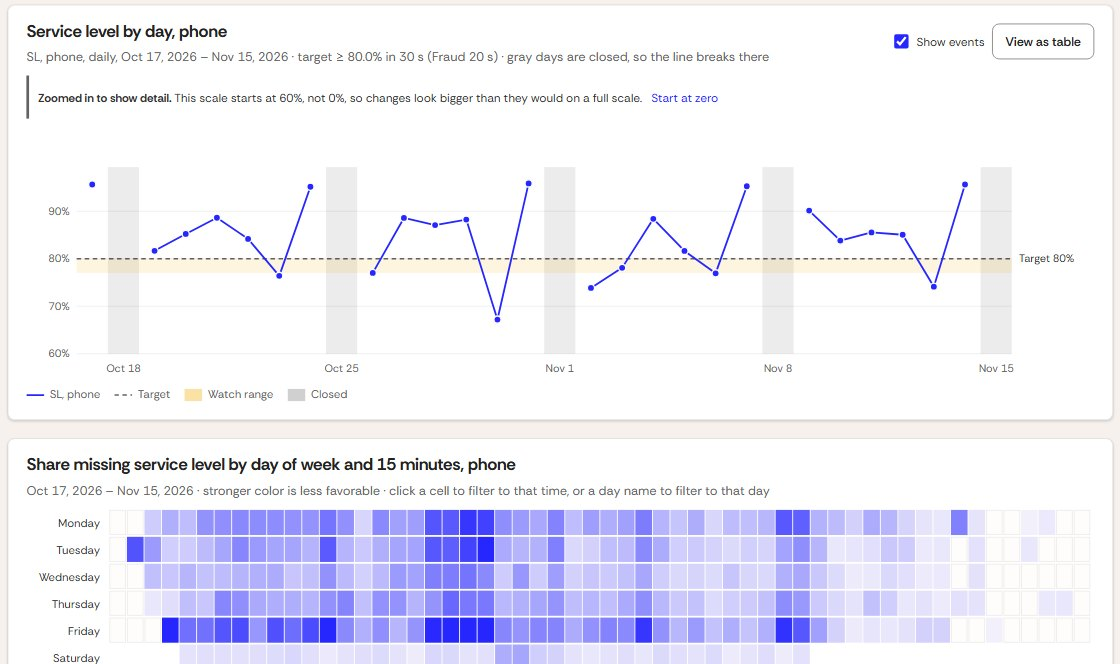
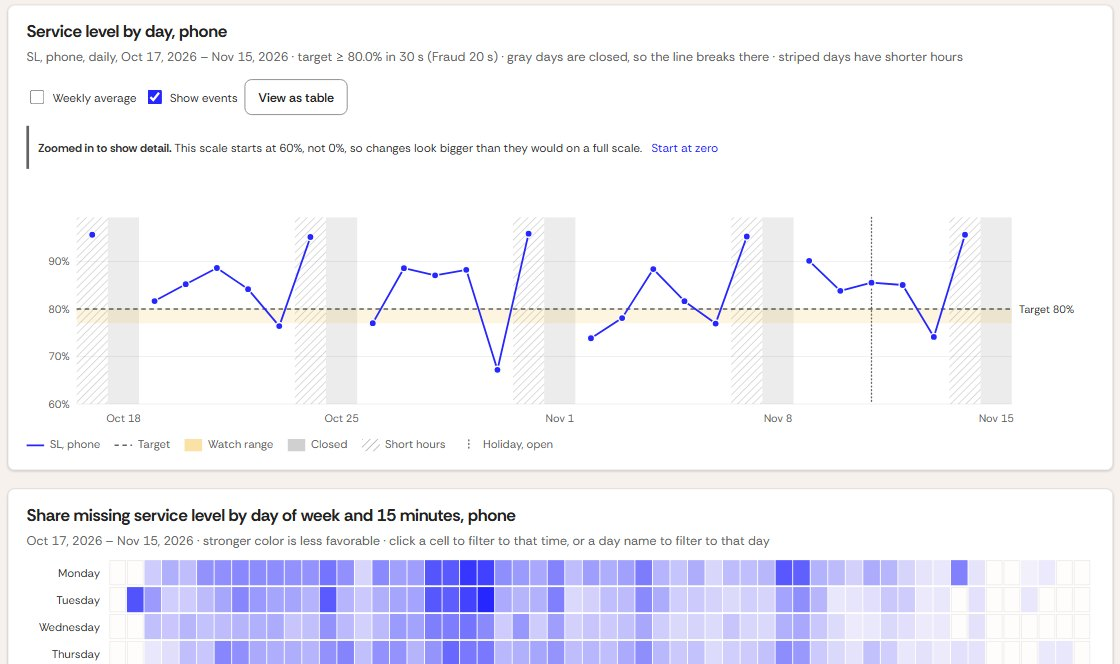
Service & Access v1.4: short-hours days, open holidays, weekly average
The by-day chart stripes days open less than 80% as long as usual
(Saturdays), marks holidays the center stays open and names closed ones,
and adds an optional weekly average: one flat line per week that breaks
on Sundays. Table view gains a Note column; CSV gains avg_week.
Landing page picture regenerated.

diff --git a/docs/service.html b/docs/service.html
@@ -65,7 +65,8 @@
   .cell-sel { fill: none; stroke: var(--text-primary); stroke-width: 2.5; } .cell-cur { fill: none; stroke: var(--off-ink); stroke-width: 2; }
   .dow { fill: var(--text-secondary); font-size: 12.5px; font-family: var(--font); cursor: pointer; } .dow.sel { font-weight: 700; fill: var(--brand-blue); }
   .gap { fill: var(--off-wash); fill-opacity: .18; }
-  .closed { fill: var(--text-muted); fill-opacity: .12; } .closed-lab { fill: var(--text-muted); font-size: 10.5px; font-family: var(--font); text-anchor: middle; }
+  .closed { fill: var(--text-muted); fill-opacity: .12; } .sh-ln { stroke: var(--text-muted); stroke-opacity: .35; stroke-width: 1.5; } .hol { stroke: var(--text-muted); stroke-width: 1.5; stroke-dasharray: 1 3; stroke-linecap: round; }
+  .l3 { fill: none; stroke: var(--brand-purple); stroke-width: 2.5; stroke-linejoin: round; } .l1.dim { stroke-opacity: .35; } .pt.dim { opacity: .45; } .closed-lab { fill: var(--text-muted); font-size: 10.5px; font-family: var(--font); text-anchor: middle; }
   @media (max-width: 767px) {
     .phone-f { display: inline-flex; align-items: center; }
     .ctls { display: none; flex-basis: 100%; flex-direction: column; gap: 8px; }
@@ -101,7 +102,7 @@
     <div class="tiles" id="tiles"></div>
     <div class="sr-only" id="live" aria-live="polite"></div>
     <section class="card" aria-labelledby="t-day">
-      <div class="head"><div><h2 id="t-day"></h2><div class="sub" id="s-day"></div></div><div class="tools"><label class="toggle"><input type="checkbox" id="t-events" checked> Show events</label><button class="btn" id="csv-day" type="button" hidden>Download CSV</button><button class="btn" id="tb-day" type="button">View as table</button></div></div>
+      <div class="head"><div><h2 id="t-day"></h2><div class="sub" id="s-day"></div></div><div class="tools"><label class="toggle"><input type="checkbox" id="t-avg"> Weekly average</label><label class="toggle"><input type="checkbox" id="t-events" checked> Show events</label><button class="btn" id="csv-day" type="button" hidden>Download CSV</button><button class="btn" id="tb-day" type="button">View as table</button></div></div>
       <div class="axnote" id="ax-day" hidden></div>
       <div class="chart" id="c-day"></div><div class="legend" id="lg-day"></div><div class="tbl" id="tbl-day" tabindex="0" role="region" aria-label="Values by day" hidden></div>
     </section>
@@ -129,9 +130,9 @@
   Site.renderChrome('service');
   const DAY = 864e5, iso = (t) => new Date(t).toISOString().slice(0, 10), ts = (s) => Date.parse(s + 'T00:00:00Z');
   const DOW = ['Sunday', 'Monday', 'Tuesday', 'Wednesday', 'Thursday', 'Friday', 'Saturday'];
-  const DEF = { days: '30', end: 'latest', ch: '1', metric: 'sl', q: [], dow: [], iv: null, day: null, sort: '', scale: '' };
+  const DEF = { days: '30', end: 'latest', ch: '1', metric: 'sl', q: [], dow: [], iv: null, day: null, sort: '', scale: '', avg: '' };
   const S = { ...DEF }, files = {};
-  let IDX, KPI, EV, B = [], B0 = [], W, req = 0, events = true, tblDay = false, tblProf = false, cur = {};
+  let IDX, KPI, EV, HOL = new Map(), B = [], B0 = [], W, req = 0, events = true, tblDay = false, tblProf = false, cur = {};
   const carried = (m) => { try { if (m === null) sessionStorage.removeItem('happen-demo-month'); else if (m) sessionStorage.setItem('happen-demo-month', m); return sessionStorage.getItem('happen-demo-month'); } catch (e) { return null; } };
   const json = (u) => fetch(u, { cache: 'no-cache' }).then((r) => { if (!r.ok) throw new Error(u + ': ' + r.status); return r.json(); });
   const chan = () => IDX.channels.find((c) => String(c.id) === S.ch), live = () => chan().live, queues = () => IDX.queues.filter((q) => String(q.channel) === S.ch), qName = (id) => IDX.queues.find((q) => q.id === id).name;
@@ -139,8 +140,8 @@
   const slot = (i) => `${time(i)} – ${time(i + 1 === 96 ? 0 : i + 1)}`;
   const secs = (s) => (s < 120 ? s + ' s' : s / 3600 + ' h');
 
-  Promise.all([json('data/dashboards/kpis.json'), json('data/dashboards/service/index.json'), json('data/dashboards/events.json')]).then(([k, i, e]) => {
-    KPI = Object.fromEntries(k.kpis.map((x) => [x.id, x])); IDX = i; EV = e.events;
+  Promise.all([json('data/dashboards/kpis.json'), json('data/dashboards/service/index.json'), json('data/dashboards/events.json'), json('data/events.json').catch(() => ({}))]).then(([k, i, e, h]) => {
+    KPI = Object.fromEntries(k.kpis.map((x) => [x.id, x])); IDX = i; EV = e.events; HOL = new Map((h.holidays || []).map((x) => [x.date, x]));
     $('f-end').innerHTML = `<option value="latest">${fmt.date(i.data_through)} (latest)</option>` + i.months.slice(0, -1).reverse().map((m) => `<option value="${m}">${fmt.month(m)}</option>`).join('');
     $('f-channel').innerHTML = i.channels.map((c) => `<option value="${c.id}">${esc(c.name)}</option>`).join('');
     const p = new URLSearchParams(location.search), one = (id, v) => [...$(id).options].some((o) => o.value === v);
@@ -151,9 +152,9 @@
     S.q = p.getAll('q').map(Number).filter((x) => queues().some((q) => q.id === x));
     S.dow = p.getAll('dow').map(Number).filter((x) => DOW[x]);
     if (p.get('iv') && +p.get('iv') >= 0 && +p.get('iv') < 96) S.iv = +p.get('iv');
-    if (/^\d{4}-\d\d-\d\d$/.test(p.get('day') || '')) S.day = p.get('day'); S.sort = p.get('sort') || ''; if (p.get('scale') === 'zero') S.scale = 'zero';
+    if (/^\d{4}-\d\d-\d\d$/.test(p.get('day') || '')) S.day = p.get('day'); S.sort = p.get('sort') || ''; if (p.get('scale') === 'zero') S.scale = 'zero'; if (p.get('avg') === 'week') S.avg = 'week';
     Site.setDataThrough(i.data_through);
-    $('footer-generated').textContent = `Data through ${fmt.date(i.data_through)} · exported ${fmt.date(i.generated_at)}, ${fmt.time(i.generated_at)} CT · Service & access operations v1.3`;
+    $('footer-generated').textContent = `Data through ${fmt.date(i.data_through)} · exported ${fmt.date(i.generated_at)}, ${fmt.time(i.generated_at)} CT · Service & access operations v1.4`;
     return update();
   }).catch(fail);
   function fail(e) { $('loading').hidden = false; $('loading').textContent = 'The service data could not be loaded. ' + e.message; }
@@ -217,7 +218,7 @@
   }
   const go = () => { hideTip(); const k = Site.focusKey(); update().then(() => Site.restoreFocus(k, '#tiles button')).catch(fail); };
   function controls() {
-    $('f-days').value = S.days; $('f-end').value = S.end; $('f-channel').value = S.ch;
+    $('t-avg').checked = !!S.avg; $('f-days').value = S.days; $('f-end').value = S.end; $('f-channel').value = S.ch;
     $('f-queue').innerHTML = `<option value="">All</option>` + (S.q.length > 1 ? `<option value="*" selected>${S.q.length} selected</option>` : '') + queues().map((q) => `<option value="${q.id}"${S.q.length === 1 && S.q[0] === q.id ? ' selected' : ''}>${esc(q.name)}</option>`).join('');
     $('f-dow').innerHTML = `<option value="">All</option>` + (S.dow.length > 1 ? `<option value="*" selected>${S.dow.length} selected</option>` : '') + DOW.map((d, i) => `<option value="${i}"${S.dow.length === 1 && S.dow[0] === i ? ' selected' : ''}>${d}</option>`).join('');
     const c = [...S.q.map((x) => ['q', x, 'Queue: ' + qName(x)]), ...S.dow.map((x) => ['dow', x, 'Day: ' + DOW[x]]), ...(S.iv != null ? [['iv', S.iv, 'Time: ' + slot(S.iv)]] : []), ...(S.day ? [['day', S.day, 'Date: ' + fmt.date(S.day)]] : [])];
@@ -231,7 +232,7 @@
     for (const k of ['days', 'end', 'ch', 'metric']) if (S[k] !== DEF[k]) p.set(k, S[k]);
     if (S.end === 'latest' && carried()) p.set('end', 'latest');
     S.q.forEach((x) => p.append('q', x)); S.dow.forEach((x) => p.append('dow', x));
-    if (S.iv != null) p.set('iv', S.iv); if (S.day) p.set('day', S.day); if (S.sort) p.set('sort', S.sort); if (S.scale) p.set('scale', S.scale);
+    if (S.iv != null) p.set('iv', S.iv); if (S.day) p.set('day', S.day); if (S.sort) p.set('sort', S.sort); if (S.scale) p.set('scale', S.scale); if (S.avg) p.set('avg', S.avg);
     history.replaceState(null, '', location.pathname + (p.toString() ? '?' + p : ''));
   }
   function toggle(k, v, add) { const a = S[k]; S[k] = a.includes(v) ? (add ? a.filter((x) => x !== v) : a.length > 1 ? [v] : []) : add ? [...a, v] : [v]; go(); }
@@ -273,27 +274,52 @@
     const m = S.metric, k = kpi(m), host = $('c-day'), map = G(['day'], (b) => b.day);
     const pts = [...map].map(([d, p]) => ({ d, t: ts(d), p, v: SV.value(m, p), low: low(m, p) })).filter((x) => x.v != null).sort((a, b) => a.t - b.t);
     cur.day = pts;
-    // closed: no contacts on the channel at all that day, whatever the other filters
-    const open = new Set([...SV.group(B, tester(['q', 'dow', 'iv', 'day']), (b) => b.day)].filter(([, p]) => p.o > 0).map(([d]) => d)), closed = [];
-    for (let t = W.s; t <= W.e; t += DAY) if (!open.has(iso(t))) closed.push(t);
+    // Opening hours from the data: the first and last 15 minutes with contacts on the channel, whatever the other filters.
+    // Closed: no contacts at all. Short hours: open less than 80% as long as usual (the most common span).
+    const qs = new Set(queues().map((q) => q.id)), span = new Map();
+    for (const bl of B) for (let j = bl.from; j < bl.to; j++) { const c = bl.cols, i = c.i[j]; if (!qs.has(c.q[j]) || !c.o[j]) continue; const r = span.get(bl.day); if (!r) span.set(bl.day, [i, i]); else { if (i < r[0]) r[0] = i; if (i > r[1]) r[1] = i; } }
+    const closed = []; for (let t = W.s; t <= W.e; t += DAY) if (!span.has(iso(t))) closed.push(t);
+    const often = new Map(); for (const r of span.values()) often.set(r.join(), (often.get(r.join()) || 0) + 1);
+    const usual = often.size ? [...often].sort((p, q) => q[1] - p[1])[0][0].split(',').map(Number) : null, len = (r) => r[1] - r[0] + 1, hours = (r) => `${time(r[0])} – ${time(r[1] + 1)}`;
+    const short = new Map(usual ? [...span].filter(([, r]) => len(r) < 0.8 * len(usual)) : []);
+    const hol = (d) => HOL.get(d), openHol = [...span.keys()].filter((d) => hol(d));
+    // Weekly average: one flat value per Monday-to-Sunday week, from every selected contact that week (days outside the window count
+    // when loaded); for contacts, per open day. Drawn on open days only, so it breaks where the daily line does.
+    const avg = new Map();
+    if (S.avg) {
+      const dm = SV.group([...B0, ...B], tester(['day']), (bl) => bl.day), first = W.cmp ? W.s0 : W.s;
+      for (const d of span.keys()) {
+        const t = ts(d), mon = t - ((new Date(t).getUTCDay() + 6) % 7) * DAY, p = SV.empty(), open = [];
+        for (let u = mon; u < mon + 7 * DAY; u += DAY) { const q = dm.get(iso(u)); if (q && q.o) { open.push(u); for (const x of SV.KEYS) p[x] += q[x]; } }
+        const v = m === 'volume' ? (open.length ? p.o / open.length : null) : SV.value(m, p);
+        if (v != null) avg.set(d, { t, v, a: open[0], b: open[open.length - 1], part: mon < first || mon + 6 * DAY > W.e });
+      }
+    }
+    cur.avg = avg;
+    const note = (d) => { const h = hol(d), r = short.get(d); return !span.has(d) ? `Closed${h ? ': ' + h.title : ''}` : [h ? h.title + ', open' : '', r ? `Short hours, ${hours(r)}` : ''].filter(Boolean).join(' · '); };
+    const avgLine = (d) => { const w = avg.get(d); return w ? `Weekly average, ${fmt.dateShort(iso(w.a))} – ${fmt.dateShort(iso(w.b))}${w.part ? ' (part of the week)' : ''}: <b>${V(m, w.v, true)}</b>${m === 'volume' ? ' a day' : ''}` : ''; };
     $('t-day').textContent = `${k.name} by day, ${chan().name.toLowerCase()}`;
-    $('s-day').textContent = `${k.short}, daily, ${fmt.date(iso(W.s))} – ${fmt.date(iso(W.e))}${k.target == null ? '' : ' · target ' + k.targetLabel}${closed.length ? ' · gray days are closed, so the line breaks there' : ''}`;
+    $('s-day').textContent = `${k.short}, daily, ${fmt.date(iso(W.s))} – ${fmt.date(iso(W.e))}${k.target == null ? '' : ' · target ' + k.targetLabel}${closed.length ? ' · gray days are closed, so the line breaks there' : ''}${short.size ? ' · striped days have shorter hours' : ''}`;
     $('ax-day').hidden = true; host.hidden = $('lg-day').hidden = tblDay; $('tbl-day').hidden = $('csv-day').hidden = !tblDay; $('tb-day').textContent = tblDay ? 'View as chart' : 'View as table'; $('tb-day').setAttribute('aria-pressed', tblDay);
     const dayName = (t) => `${DOW[new Date(t).getUTCDay()].slice(0, 3)}, ${fmt.date(iso(t))}`;
-    if (tblDay) { const rows = [...pts.map((x) => ({ t: x.t, h: `<tr><td>${dayName(x.t)}</td><td class="${x.low ? 'low' : ''}">${V(m, x.v, true)}</td>${k.target == null ? '' : `<td>${badge(m, x.p)}</td>`}<td>${fmt.count(x.p.o)}</td><td>${fmt.count(x.p.f)}</td></tr>` })), ...closed.map((t) => ({ t, h: `<tr><td>${dayName(t)}</td><td class="low">Closed</td>${k.target == null ? '' : '<td></td>'}<td>–</td><td>–</td></tr>` }))].sort((p, q) => q.t - p.t);
-      $('tbl-day').innerHTML = `<table><thead><tr><th scope="col">Day</th><th scope="col">${esc(k.name)}</th>${k.target == null ? '' : '<th scope="col">Status</th>'}<th scope="col">Offered</th><th scope="col">Forecast</th></tr></thead><tbody>${rows.map((r) => r.h).join('')}</tbody></table>`; return; }
+    const avgCell = (d) => (S.avg ? `<td>${avg.has(d) ? V(m, avg.get(d).v, true) : '–'}</td>` : '');
+    if (tblDay) { const rows = [...pts.map((x) => ({ t: x.t, h: `<tr><td>${dayName(x.t)}</td><td class="${x.low ? 'low' : ''}">${V(m, x.v, true)}</td>${avgCell(x.d)}${k.target == null ? '' : `<td>${badge(m, x.p)}</td>`}<td>${fmt.count(x.p.o)}</td><td>${fmt.count(x.p.f)}</td><td>${esc(note(x.d))}</td></tr>` })), ...closed.map((t) => ({ t, h: `<tr><td>${dayName(t)}</td><td class="low">Closed</td>${avgCell(iso(t))}${k.target == null ? '' : '<td></td>'}<td>–</td><td>–</td><td>${esc(note(iso(t)))}</td></tr>` }))].sort((p, q) => q.t - p.t);
+      $('tbl-day').innerHTML = `<table><thead><tr><th scope="col">Day</th><th scope="col">${esc(k.name)}</th>${S.avg ? '<th scope="col">Weekly average</th>' : ''}${k.target == null ? '' : '<th scope="col">Status</th>'}<th scope="col">Offered</th><th scope="col">Forecast</th><th scope="col">Note</th></tr></thead><tbody>${rows.map((r) => r.h).join('')}</tbody></table>`; return; }
     host.innerHTML = ''; if (!pts.length) { host.textContent = 'No contacts for these filters.'; $('lg-day').innerHTML = ''; return; }
     const w = host.clientWidth || 800, narrow = w < 560, H = 280, M = { t: 44, r: narrow ? 10 : 92, b: 28, l: 56 }, iw = w - M.l - M.r, ih = H - M.t - M.b, fc = m === 'volume';
-    const tg = k.target == null ? [] : [].concat(k.target), wb = k.target == null ? [] : [].concat(k.watch), ok = pts.filter((x) => !x.low), src = ok.length ? ok : pts, vals = [...pts.map((x) => x.v), ...tg, ...wb, ...(fc ? pts.map((x) => x.p.f) : [])];
+    const tg = k.target == null ? [] : [].concat(k.target), wb = k.target == null ? [] : [].concat(k.watch), ok = pts.filter((x) => !x.low), src = ok.length ? ok : pts, vals = [...pts.map((x) => x.v), ...tg, ...wb, ...(fc ? pts.map((x) => x.p.f) : []), ...[...avg.values()].map((q) => q.v)];
     const { a, b, edge } = Site.trendAxis(vals, k.format, S.scale === 'zero'), scale = Site.axisNote($('ax-day'), { edge, zero: S.scale === 'zero', show: (v) => tick(m, v), set: (z) => { S.scale = z ? 'zero' : ''; writeUrl(); renderDay(); } });
     const x = (t) => M.l + (t - W.s + DAY / 2) / (W.e - W.s + DAY) * iw, y = (v) => M.t + (b - v) / (b - a) * ih, step = iw / +S.days;
     const s = el('svg', { viewBox: `0 0 ${w} ${H}`, height: H, role: 'group', 'aria-label': `${k.name} by day. ${scale} Use View as table for values.` }, host), g = el('g', { class: 'g' }, s), ax = el('g', { class: 'ax' }, s);
     for (const t of ticks(a, b, 5, k.format)) { el('line', { x1: M.l, x2: M.l + iw, y1: y(t), y2: y(t) }, g); text(ax, M.l - 8, y(t) + 4, tick(m, t), '', 'end'); }
     for (const t of closed) {
       const r = el('rect', { class: 'closed', x: x(t) - step / 2, y: M.t, width: step, height: ih }, s); s.insertBefore(r, g);
-      tip(r, () => `<b>${DOW[new Date(t).getUTCDay()]}, ${fmt.date(iso(t))}</b><br>Closed: no ${chan().name.toLowerCase()} contacts`);
+      tip(r, () => `<b>${DOW[new Date(t).getUTCDay()]}, ${fmt.date(iso(t))}</b><br>${esc(note(iso(t)))}: no ${chan().name.toLowerCase()} contacts${avg.has(iso(t)) ? '<br>' + avgLine(iso(t)) : ''}`);
       if (step >= 36) text(s, x(t), M.t + 12, 'Closed', 'closed-lab');
     }
+    if (short.size) { const pt = el('pattern', { id: 'sh-day', width: 6, height: 6, patternUnits: 'userSpaceOnUse', patternTransform: 'rotate(45)' }, el('defs', {}, s)); el('line', { class: 'sh-ln', x1: 0, y1: 0, x2: 0, y2: 6 }, pt); }
+    for (const d of short.keys()) { const t = ts(d); if (t < W.s || t > W.e) continue; s.insertBefore(el('rect', { x: x(t) - step / 2, y: M.t, width: step, height: ih, fill: 'url(#sh-day)' }, s), g); }
+    for (const d of openHol) { const t = ts(d); el('line', { class: 'hol', x1: x(t), x2: x(t), y1: M.t, y2: M.t + ih }, s); }
     let lx = -99; for (let t = W.s; t <= W.e; t += DAY) { if (+S.days > 7 && new Date(t).getUTCDay() !== 0) continue; if (x(t) - lx < (narrow ? 54 : 48)) continue; text(ax, x(t), H - 8, +S.days > 7 ? fmt.dateShort(iso(t)) : DOW[new Date(t).getUTCDay()].slice(0, 3) + ' ' + new Date(t).getUTCDate(), '', 'middle'); lx = x(t); }
     const marks = [];
     if (events) { let n = 0; for (const e of EV) { const p = ts(e.start), q = ts(e.end); if (q < W.s || p > W.e) continue; n++; const ea = Math.max(M.l, x(p) - step / 2), eb = Math.min(M.l + iw, x(q) + step / 2); if (e.span === 'Period') el('rect', { class: 'evb', x: ea, y: M.t, width: eb - ea, height: ih }, s); else el('line', { class: 'evl', x1: x(p), x2: x(p), y1: M.t, y2: M.t + ih }, s); marks.push([e, n, e.span === 'Period' ? ea : x(p)]); } }
@@ -301,17 +327,19 @@
     for (const t of tg) { el('line', { class: 'tg', x1: M.l, x2: M.l + iw, y1: y(t), y2: y(t) }, s); if (!narrow) text(s, M.l + iw + 8, y(t) + 4, (m === 'forecast' ? 'Limit ' : 'Target ') + tick(m, t), 'lab'); }
     const path = (f, list) => Site.linePath(list.map((q) => ({ k: q.t / DAY, x: x(q.t), y: y(f(q)) })));
     if (fc) el('path', { class: 'l2', d: path((q) => q.p.f, pts) }, s);
-    el('path', { class: 'l1', d: path((q) => q.v, src) }, s);
-    const live1 = (q) => `${DOW[new Date(q.t).getUTCDay()]}, ${fmt.date(q.d)}: ${V(m, q.v, true)}${k.target == null || q.low ? '' : ', ' + STATUS_WORD[stat(m, q.p)]}`;
+    el('path', { class: 'l1' + (avg.size ? ' dim' : ''), d: path((q) => q.v, src) }, s);
+    const weeks = new Map(); for (const w of avg.values()) { const r = weeks.get(w.a); if (!r) weeks.set(w.a, [w.t, w.t, w.v]); else { r[0] = Math.min(r[0], w.t); r[1] = Math.max(r[1], w.t); } }
+    for (const [t0, t1, v] of weeks.values()) el('line', { class: 'l3', x1: x(t0) - step * 0.4, x2: x(t1) + step * 0.4, y1: y(v), y2: y(v) }, s);
+    const live1 = (q) => `${DOW[new Date(q.t).getUTCDay()]}, ${fmt.date(q.d)}: ${V(m, q.v, true)}${k.target == null || q.low ? '' : ', ' + STATUS_WORD[stat(m, q.p)]}${avg.has(q.d) ? ', weekly average ' + V(m, avg.get(q.d).v, true) : ''}${note(q.d) ? '. ' + note(q.d) : ''}`;
     pts.forEach((q) => {
-      el('circle', { class: 'pt' + (q.low ? ' low' : '') + (S.day === q.d ? ' day' : ''), cx: x(q.t), cy: y(q.v), r: S.day === q.d ? 6 : step > 14 ? 4 : 2.5 }, s);
+      el('circle', { class: 'pt' + (q.low ? ' low' : '') + (S.day === q.d ? ' day' : '') + (avg.size && S.day !== q.d ? ' dim' : ''), cx: x(q.t), cy: y(q.v), r: S.day === q.d ? 6 : step > 14 ? 4 : 2.5 }, s);
       const h = el('rect', { class: 'hit', x: x(q.t) - step / 2, y: M.t, width: Math.max(step, 4), height: ih, tabindex: q === pts[pts.length - 1] ? 0 : -1, 'data-k': 'day|' + q.d, role: 'button', 'aria-pressed': S.day === q.d, 'aria-label': live1(q) + '. Filter to this day' }, s);
-      tip(h, () => `<b>${DOW[new Date(q.t).getUTCDay()]}, ${fmt.date(q.d)}</b><br>${esc(k.name)}: <b>${V(m, q.v, true)}</b> ${badge(m, q.p)}<br>${detail(m, q.p)}${EV.filter((e) => e.start <= q.d && e.end >= q.d).map((e) => `<br><span class="muted">Event: ${esc(e.name)}</span>`).join('')}<br><span class="muted">Click to filter to this day</span>`, () => { S.day = S.day === q.d ? null : q.d; go(); });
+      tip(h, () => `<b>${DOW[new Date(q.t).getUTCDay()]}, ${fmt.date(q.d)}</b><br>${esc(k.name)}: <b>${V(m, q.v, true)}</b> ${badge(m, q.p)}<br>${detail(m, q.p)}${avg.has(q.d) ? '<br>' + avgLine(q.d) : ''}${note(q.d) ? `<br><span class="muted">${esc(note(q.d))}${short.has(q.d) ? ` (usually ${hours(usual)})` : ''}</span>` : ''}${EV.filter((e) => e.start <= q.d && e.end >= q.d).map((e) => `<br><span class="muted">Event: ${esc(e.name)}</span>`).join('')}<br><span class="muted">Click to filter to this day</span>`, () => { S.day = S.day === q.d ? null : q.d; go(); });
     });
     arrows(s, '.hit');
     for (const [e, n, ex] of marks) { const q = el('g', { class: 'ev', transform: `translate(${ex},${M.t - 14})`, tabindex: 0, role: 'img', 'aria-label': `${e.name}, ${fmt.date(e.start)}` }, s); el('circle', { r: 12, style: 'fill:transparent;stroke:none' }, q); el('circle', { r: 8 }, q); text(q, 0, 3.5, n); tip(q, () => `<b>${n}. ${esc(e.name)}</b><br>${fmt.date(e.start)}${e.end !== e.start ? ' – ' + fmt.date(e.end) : ''}<br><span class="muted">${esc(e.description)}</span>`); }
     Site.eventKey(host, marks.map(([e, n]) => ({ n, e })));
-    $('lg-day').innerHTML = !fc && !tg.length && !pts.some((q) => q.low) && !closed.length ? '' : leg([['<line class="l1" x2="20" y1="7" y2="7"/>', k.short], ...(fc ? [['<line class="l2" x2="20" y1="7" y2="7"/>', 'Forecast']] : []), ...(tg.length ? [['<line class="tg" x2="20" y1="7" y2="7"/>', 'Target'], ['<rect class="wb" style="fill-opacity:.35" width="20" height="14"/>', 'Watch range']] : []), ...(pts.some((q) => q.low) ? [['<circle class="pt low" cx="10" cy="7" r="4"/>', 'Too few to rate']] : []), ...(closed.length ? [['<rect class="closed" style="fill-opacity:.3" width="20" height="14"/>', 'Closed']] : [])]);
+    $('lg-day').innerHTML = !fc && !tg.length && !pts.some((q) => q.low) && !closed.length && !short.size && !openHol.length && !avg.size ? '' : leg([['<line class="l1" x2="20" y1="7" y2="7"/>', k.short], ...(avg.size ? [['<line class="l3" x2="20" y1="7" y2="7"/>', 'Weekly average']] : []), ...(fc ? [['<line class="l2" x2="20" y1="7" y2="7"/>', 'Forecast']] : []), ...(tg.length ? [['<line class="tg" x2="20" y1="7" y2="7"/>', 'Target'], ['<rect class="wb" style="fill-opacity:.35" width="20" height="14"/>', 'Watch range']] : []), ...(pts.some((q) => q.low) ? [['<circle class="pt low" cx="10" cy="7" r="4"/>', 'Too few to rate']] : []), ...(closed.length ? [['<rect class="closed" style="fill-opacity:.3" width="20" height="14"/>', 'Closed']] : []), ...(short.size ? [['<defs><pattern id="sh-key" width="6" height="6" patternUnits="userSpaceOnUse" patternTransform="rotate(45)"><line class="sh-ln" x2="0" y2="6" style="stroke-opacity:.6"/></pattern></defs><rect width="20" height="14" fill="url(#sh-key)"/>', 'Short hours']] : []), ...(openHol.length ? [['<line class="hol" x1="10" x2="10" y1="1" y2="13"/>', 'Holiday, open']] : [])]);
   }
   // one Tab stop per chart; arrows move between marks
   function arrows(svg, sel) {
@@ -438,12 +466,13 @@
   $('copy-link').addEventListener('click', (e) => Site.copyLink(e.currentTarget));
   $('phone-f').addEventListener('click', (e) => { const o = $('ctls').classList.toggle('open'); e.currentTarget.setAttribute('aria-expanded', o); });
   $('t-events').addEventListener('change', (e) => { events = e.target.checked; renderDay(); });
+  $('t-avg').addEventListener('change', (e) => { S.avg = e.target.checked ? 'week' : ''; writeUrl(); renderDay(); });
   $('tb-day').addEventListener('click', () => { tblDay = !tblDay; renderDay(); });
   $('tb-prof').addEventListener('click', () => { tblProf = !tblProf; renderProfile(); });
   const about = (w) => `Service & access operations · ${chan().name} · ${w} · ${iso(W.s)} to ${iso(W.e)} · filters: ${[...S.q.map((x) => 'queue=' + qName(x)), ...S.dow.map((x) => 'day=' + DOW[x]), ...(S.iv != null ? ['time=' + slot(S.iv)] : []), ...(S.day ? ['date=' + S.day] : [])].join('; ') || 'none'} · data through ${IDX.data_through}`;
   const csv = (name, w, head, rows) => Site.downloadCsv(`service-access_${name}_${chan().name.toLowerCase().replace(/ /g, '-')}`, IDX.data_through, about(w), head, rows);
   const raw = ['offered', 'answered', 'within_threshold', 'abandoned', 'short_abandoned', 'forecast', 'scheduled_fte', 'required_fte'], vals = (p) => [p.o, p.a, p.w, p.b, p.s, p.f, p.h, p.r];
-  $('csv-day').addEventListener('click', () => csv('by-day', kpi(S.metric).name + ' by day', ['date', S.metric, ...raw], cur.day.slice().reverse().map((x) => [x.d, x.v, ...vals(x.p)])));
+  $('csv-day').addEventListener('click', () => csv('by-day', kpi(S.metric).name + ' by day', ['date', S.metric, ...(S.avg ? ['avg_week'] : []), ...raw], cur.day.slice().reverse().map((x) => [x.d, x.v, ...(S.avg ? [cur.avg.get(x.d)?.v ?? ''] : []), ...vals(x.p)])));
   $('csv-worst').addEventListener('click', () => csv('time-slots', 'time slots, ' + cur.worstBy, ['day_of_week', 'time', 'past_threshold', 'service_level', 'asa', 'abandon_rate', ...raw], cur.worst.map((c) => [DOW[c.dow], slot(c.i), c.miss, SV.value('sl', c.p), SV.value('asa', c.p), SV.value('abandon', c.p), ...vals(c.p)])));
   $('csv-prof').addEventListener('click', () => csv('average-day', 'average day', ['time', 'offered', 'forecast', 'scheduled_fte', 'required_fte'], cur.prof.map((x) => [slot(x.i), x.o, x.f, x.h, x.r])));
   $('csv-q').addEventListener('click', () => csv('queues', 'queues', ['queue', 'threshold_sec', 'service_level', 'asa', 'abandon_rate', 'days_below_target', 'days_rated', ...raw], cur.q.map((r) => [r.q.name, r.q.sec, SV.value('sl', r.p), SV.value('asa', r.p), SV.value('abandon', r.p), r.miss, r.days, ...vals(r.p)])));

diff --git a/docs/index.html b/docs/index.html
@@ -142,7 +142,7 @@ if ([...new URLSearchParams(location.search).keys()].some((k) => /^(run|tab|rang
     <div class="body"><h3><a class="go" href="${f}.html">${esc(name)}</a></h3><p class="q">${esc(q)}</p><p class="d">${esc(d)}</p>
       <p class="inc" id="i-${f}">${label}</p><ul class="links" aria-labelledby="i-${f}">${links.map(metric(f)).join('')}</ul>
       <p class="open" aria-hidden="true">Open ${f === 'chat' ? name : 'dashboard'} →</p></div>
-    <div class="shot"><img src="${IMG}${f}.jpg?v=2.1" alt="" width="1120" height="664"${f === 'executive' || f === 'chat' ? '' : ' loading="lazy"'}></div></article>`;
+    <div class="shot"><img src="${IMG}${f}.jpg?v=2.3" alt="" width="1120" height="664"${f === 'executive' || f === 'chat' ? '' : ' loading="lazy"'}></div></article>`;
   document.getElementById('groups').innerHTML = G.map(([g, sub, cls, items]) => `<section class="group" aria-labelledby="g-${g}"><h2 id="g-${g}">${g}</h2><p>${esc(sub)}</p><div class="cards ${cls}">${items.map(card).join('')}</div></section>`).join('');
 
   // Explanation on hover, keyboard focus or tap. It stays while the pointer is on it; Esc closes it.
